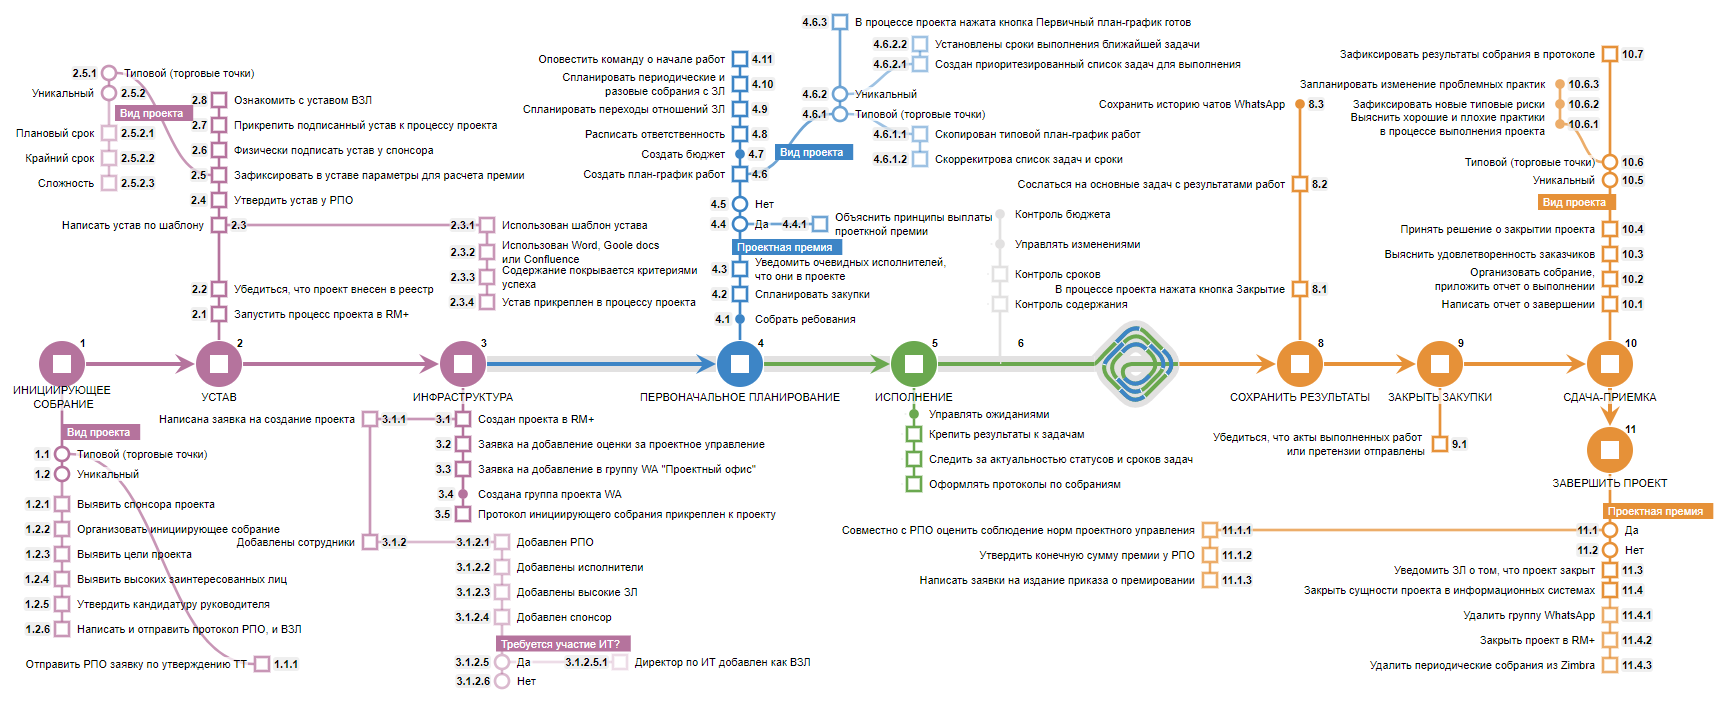
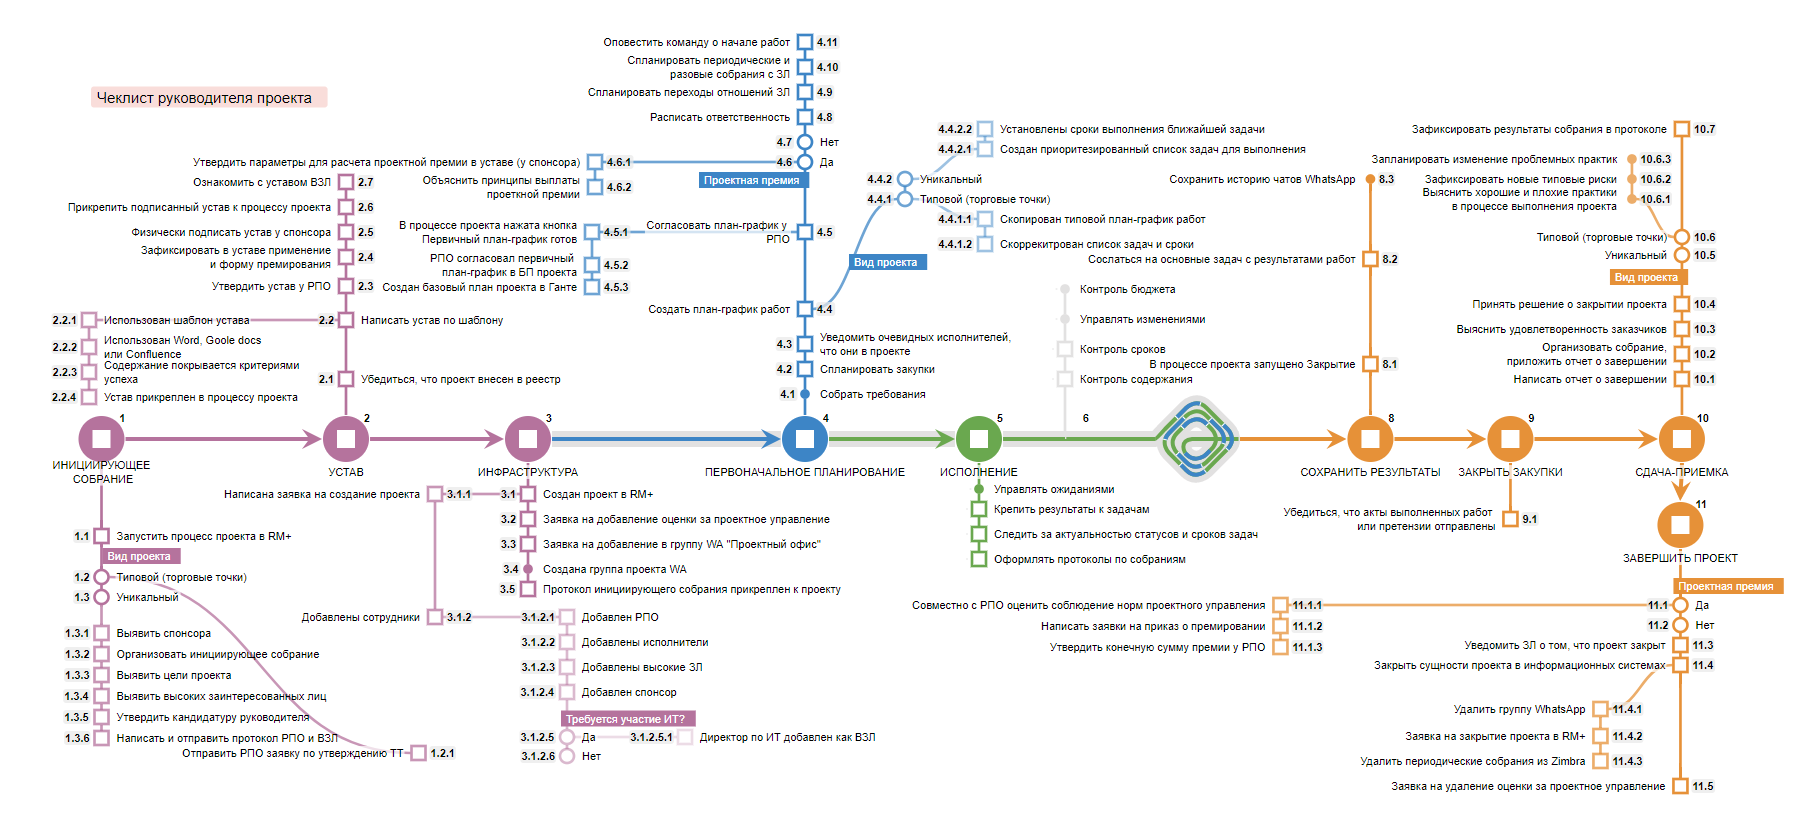
Add files via upload

Changed region(s): [[0.0, 0.0, 1.0, 0.9929]]

diff --git a/check_project_standarts.html b/check_project_standarts.html
@@ -1,0 +1,10 @@
+<html>
+<!DOCTYPE html>
+<html>
+<head>
+<title>Пошаговый чеклист, регламентирующий проверку норм проектного управления </title>
+<meta charset="utf-8"/>
+</head>
+<body style="background: url('./check_project_standarts.png') 50% 50% no-repeat;">
+</body>
+</html>
